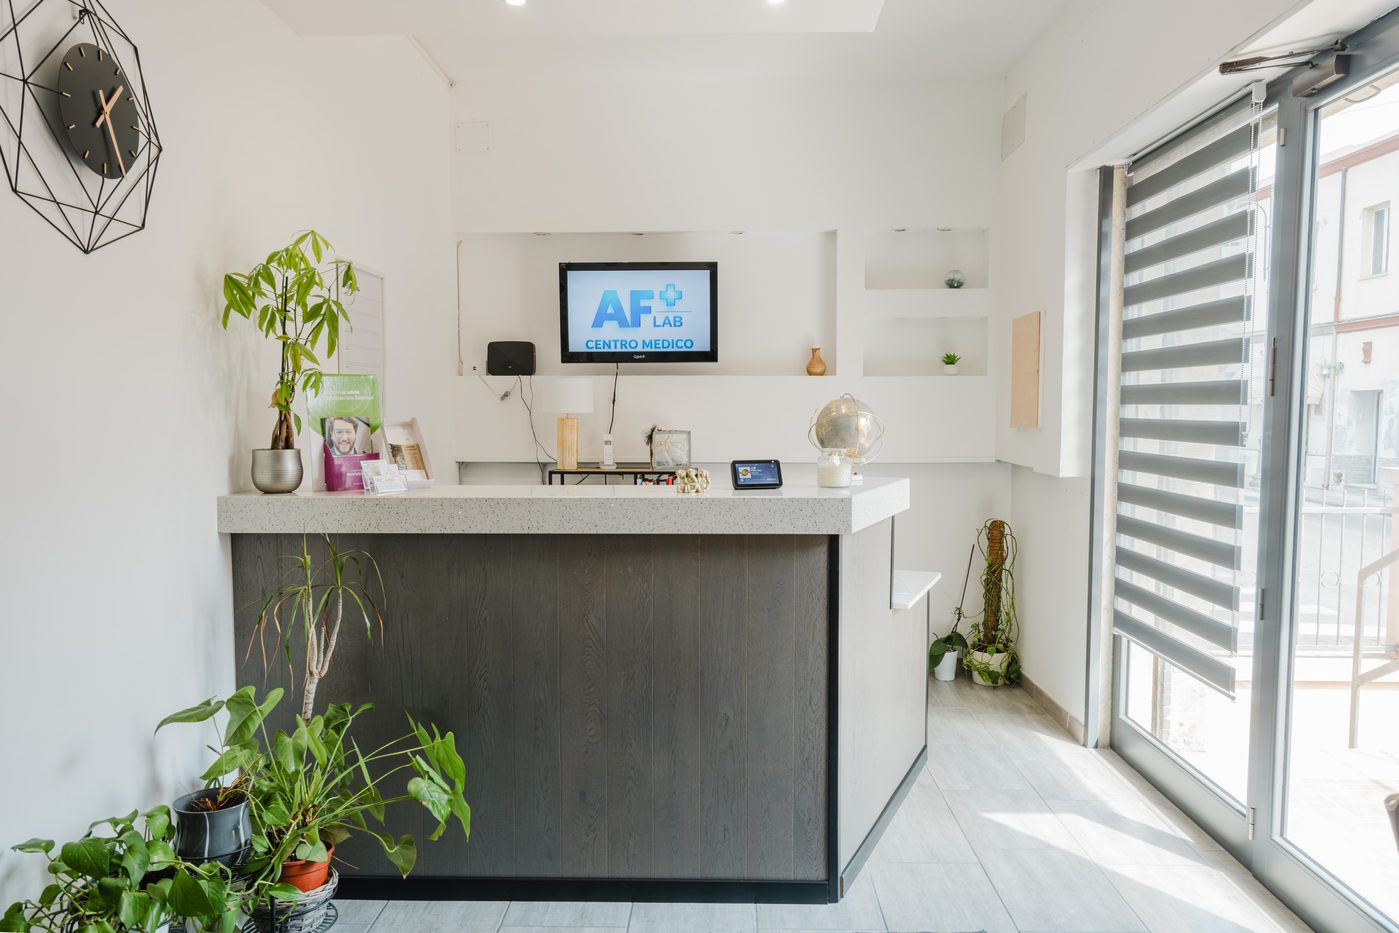
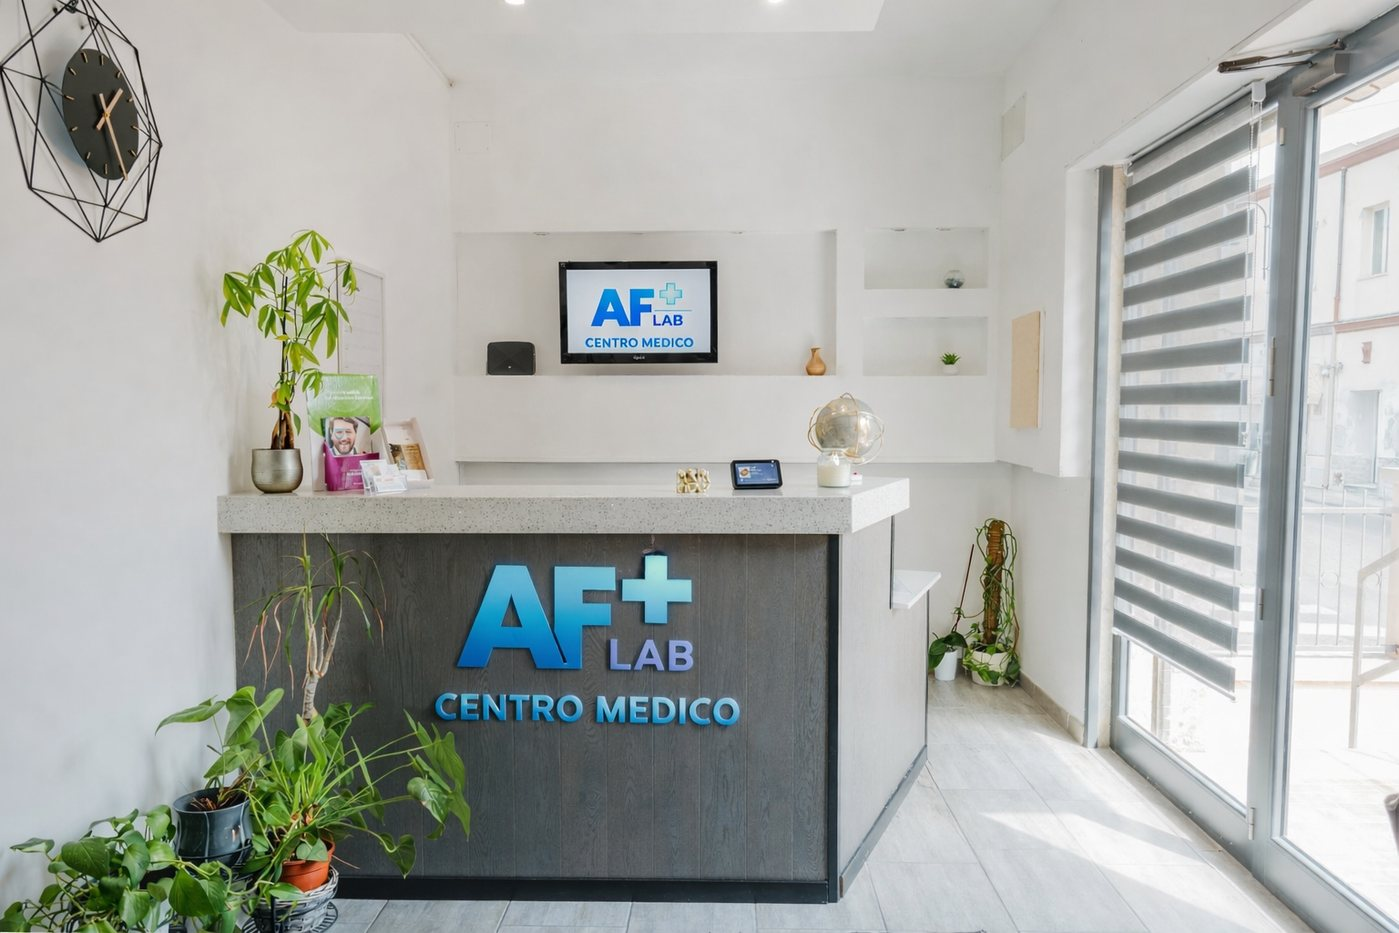
feat: aggiorna foto reception/ingresso, aggiungi poltrona e lettino
- reception.jpg e ingresso.jpg: sostituiti con foto reception+logo AFlab
- Aggiunge poltrona.jpg e lettino.jpg (compressi da ~3MB a ~85KB)
- Carosello: aggiunge poltrona e lettino come nuovi slide

diff --git a/src/app/components/hero/hero.component.ts b/src/app/components/hero/hero.component.ts
@@ -24,6 +24,8 @@ export class HeroComponent implements OnInit, OnDestroy {
     'assets/foto/sala-attesa.jpg',
     'assets/foto/hero-4.jpg',
     'assets/foto/studio-3.jpg',
+    'assets/foto/poltrona.jpg',
+    'assets/foto/lettino.jpg',
   ];
   currentSlide = 0;
   private slideInterval: ReturnType<typeof setInterval> | null = null;
